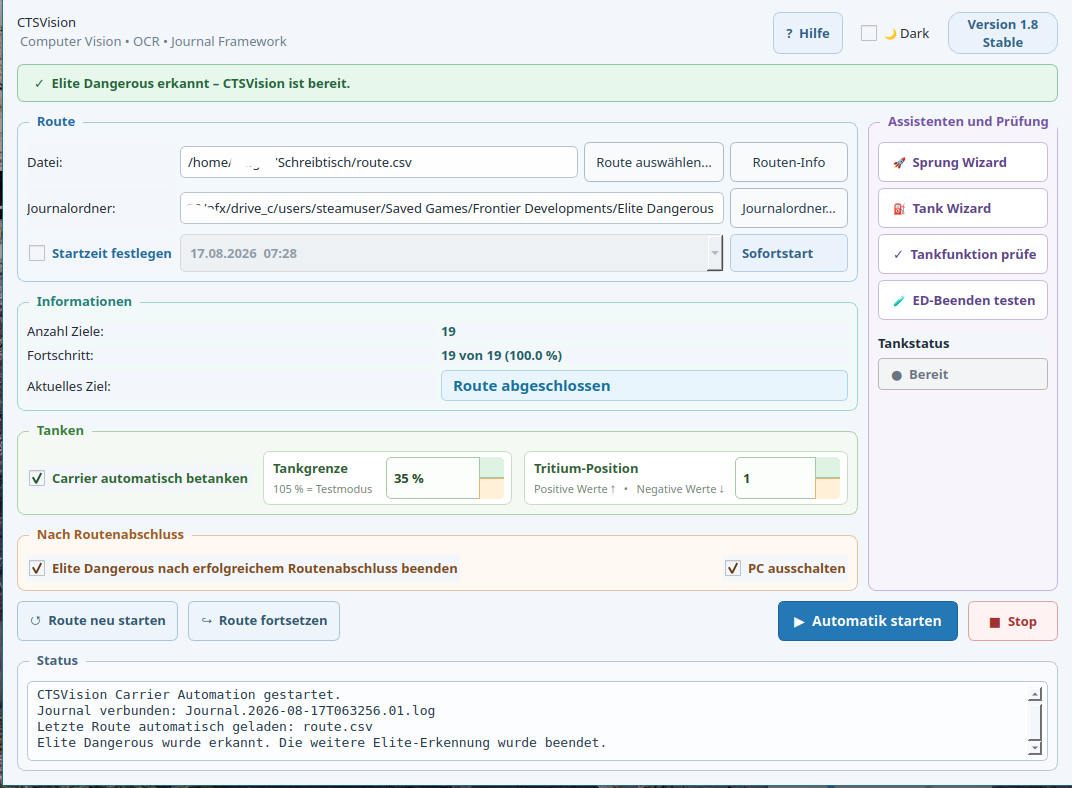
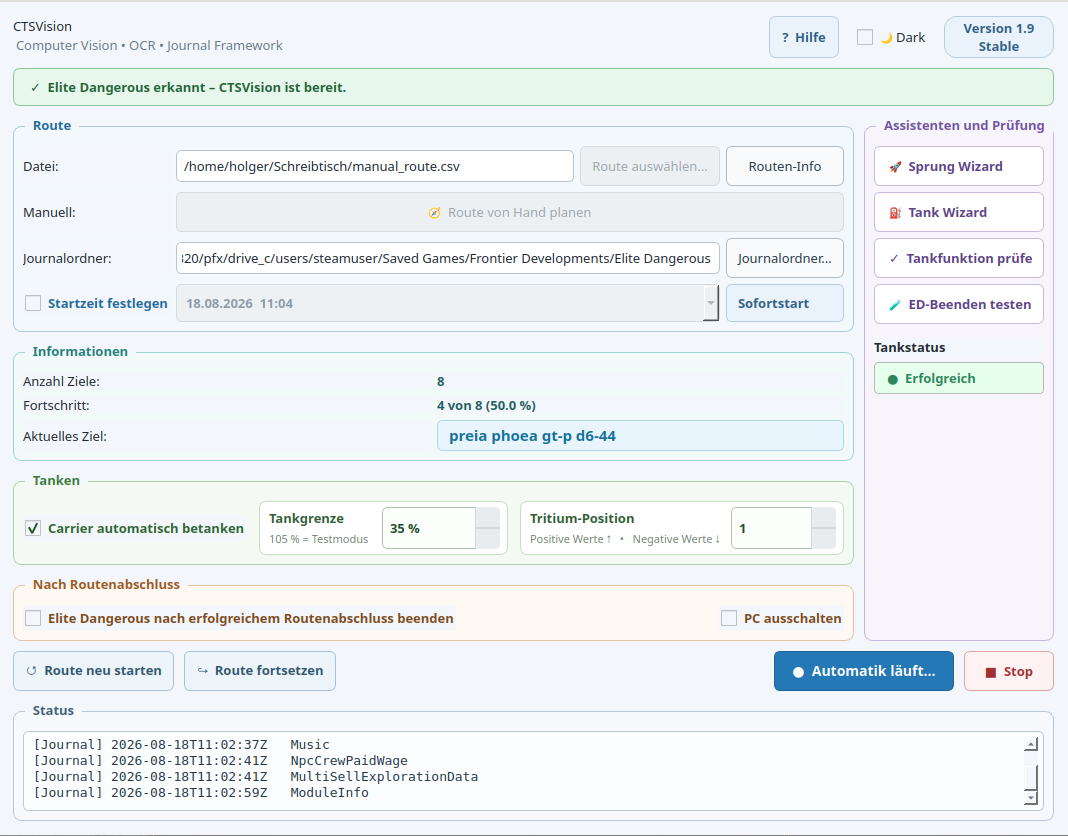
Bild aktualisiert .

diff --git a/update.py b/update.py
@@ -17,7 +17,7 @@ from pathlib import Path
 
 GITHUB_OWNER = "Faber38"
 GITHUB_REPO = "CTSVision"
-CURRENT_VERSION = "1.8"
+CURRENT_VERSION = "1.9"
 
 LATEST_RELEASE_API = (
     f"https://api.github.com/repos/{GITHUB_OWNER}/{GITHUB_REPO}/releases/latest"
